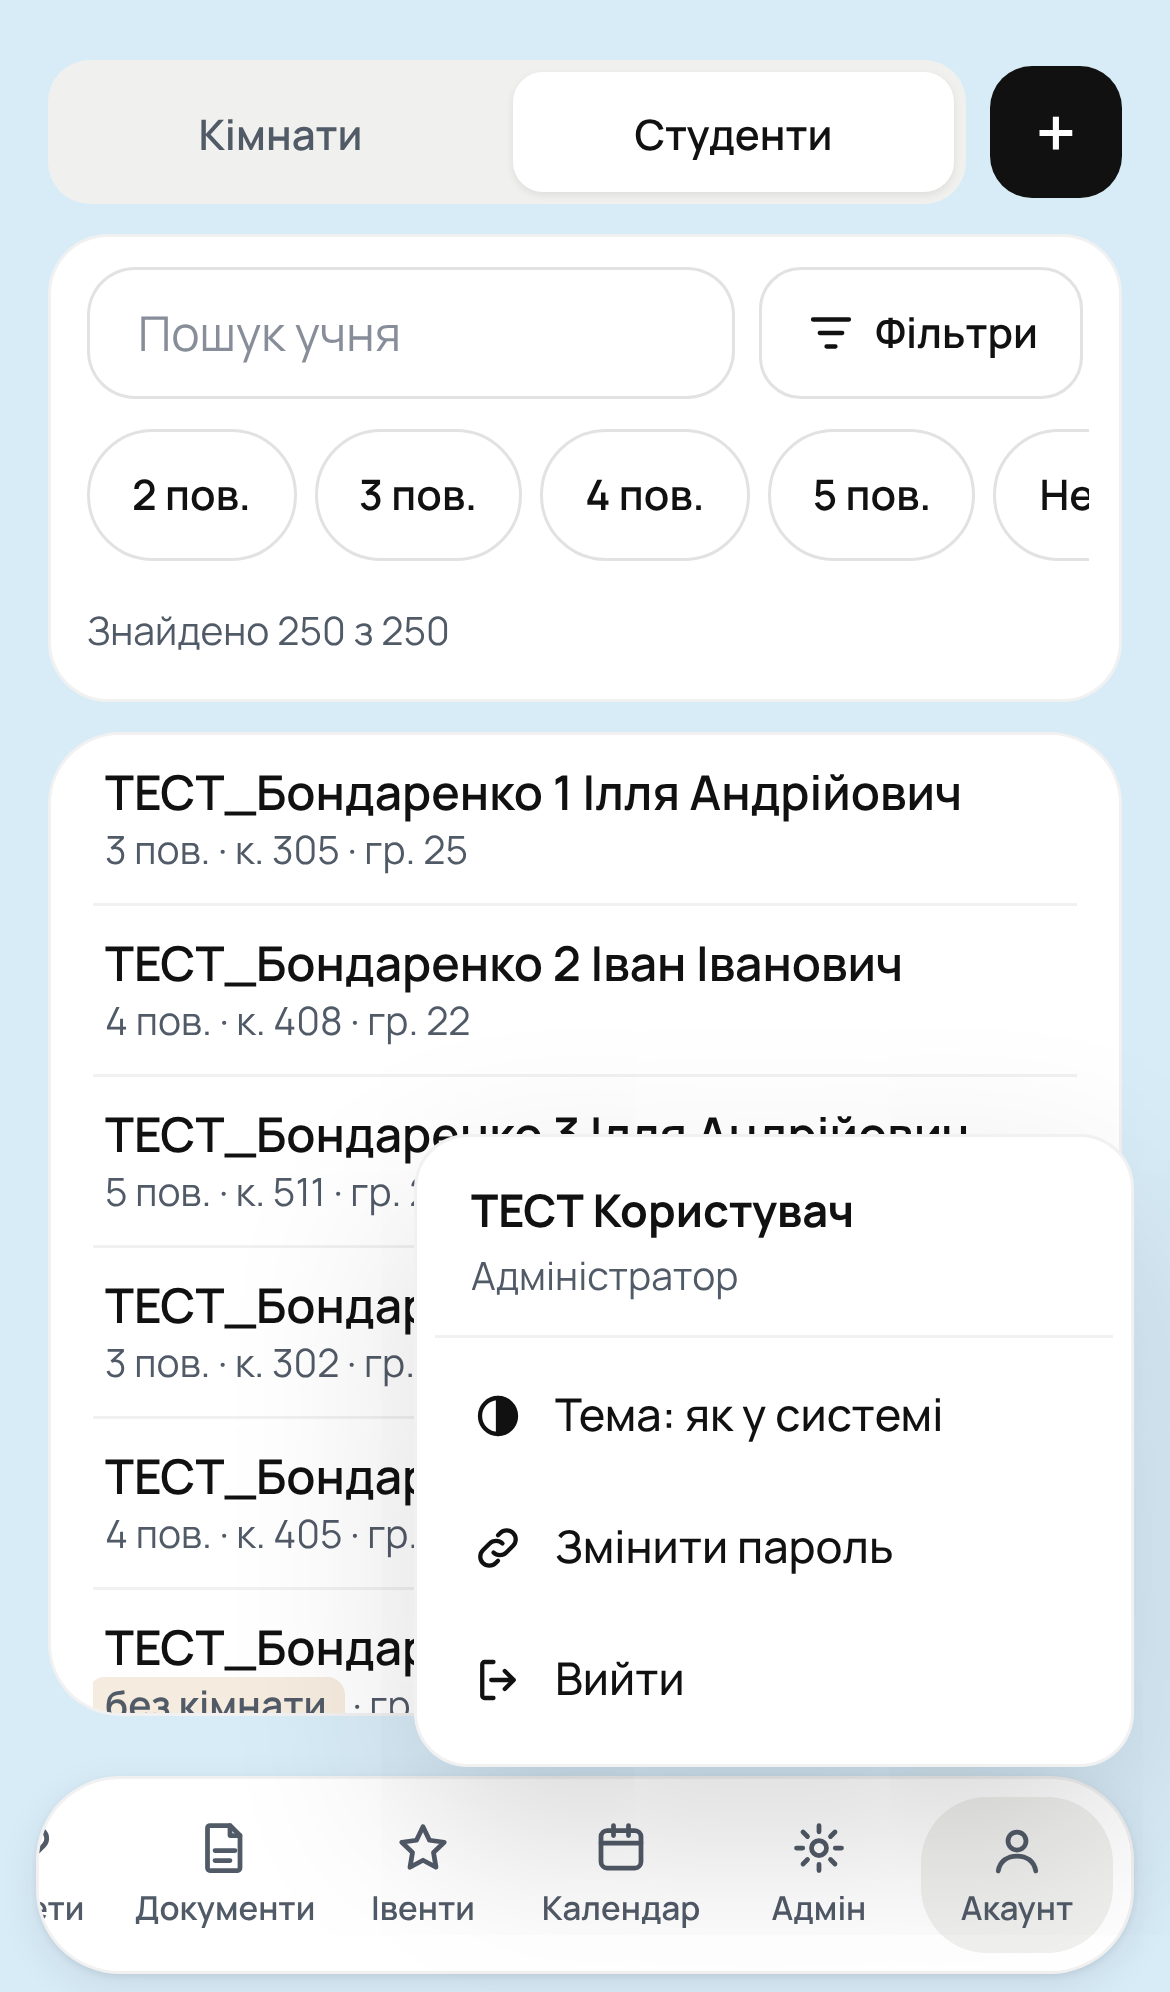
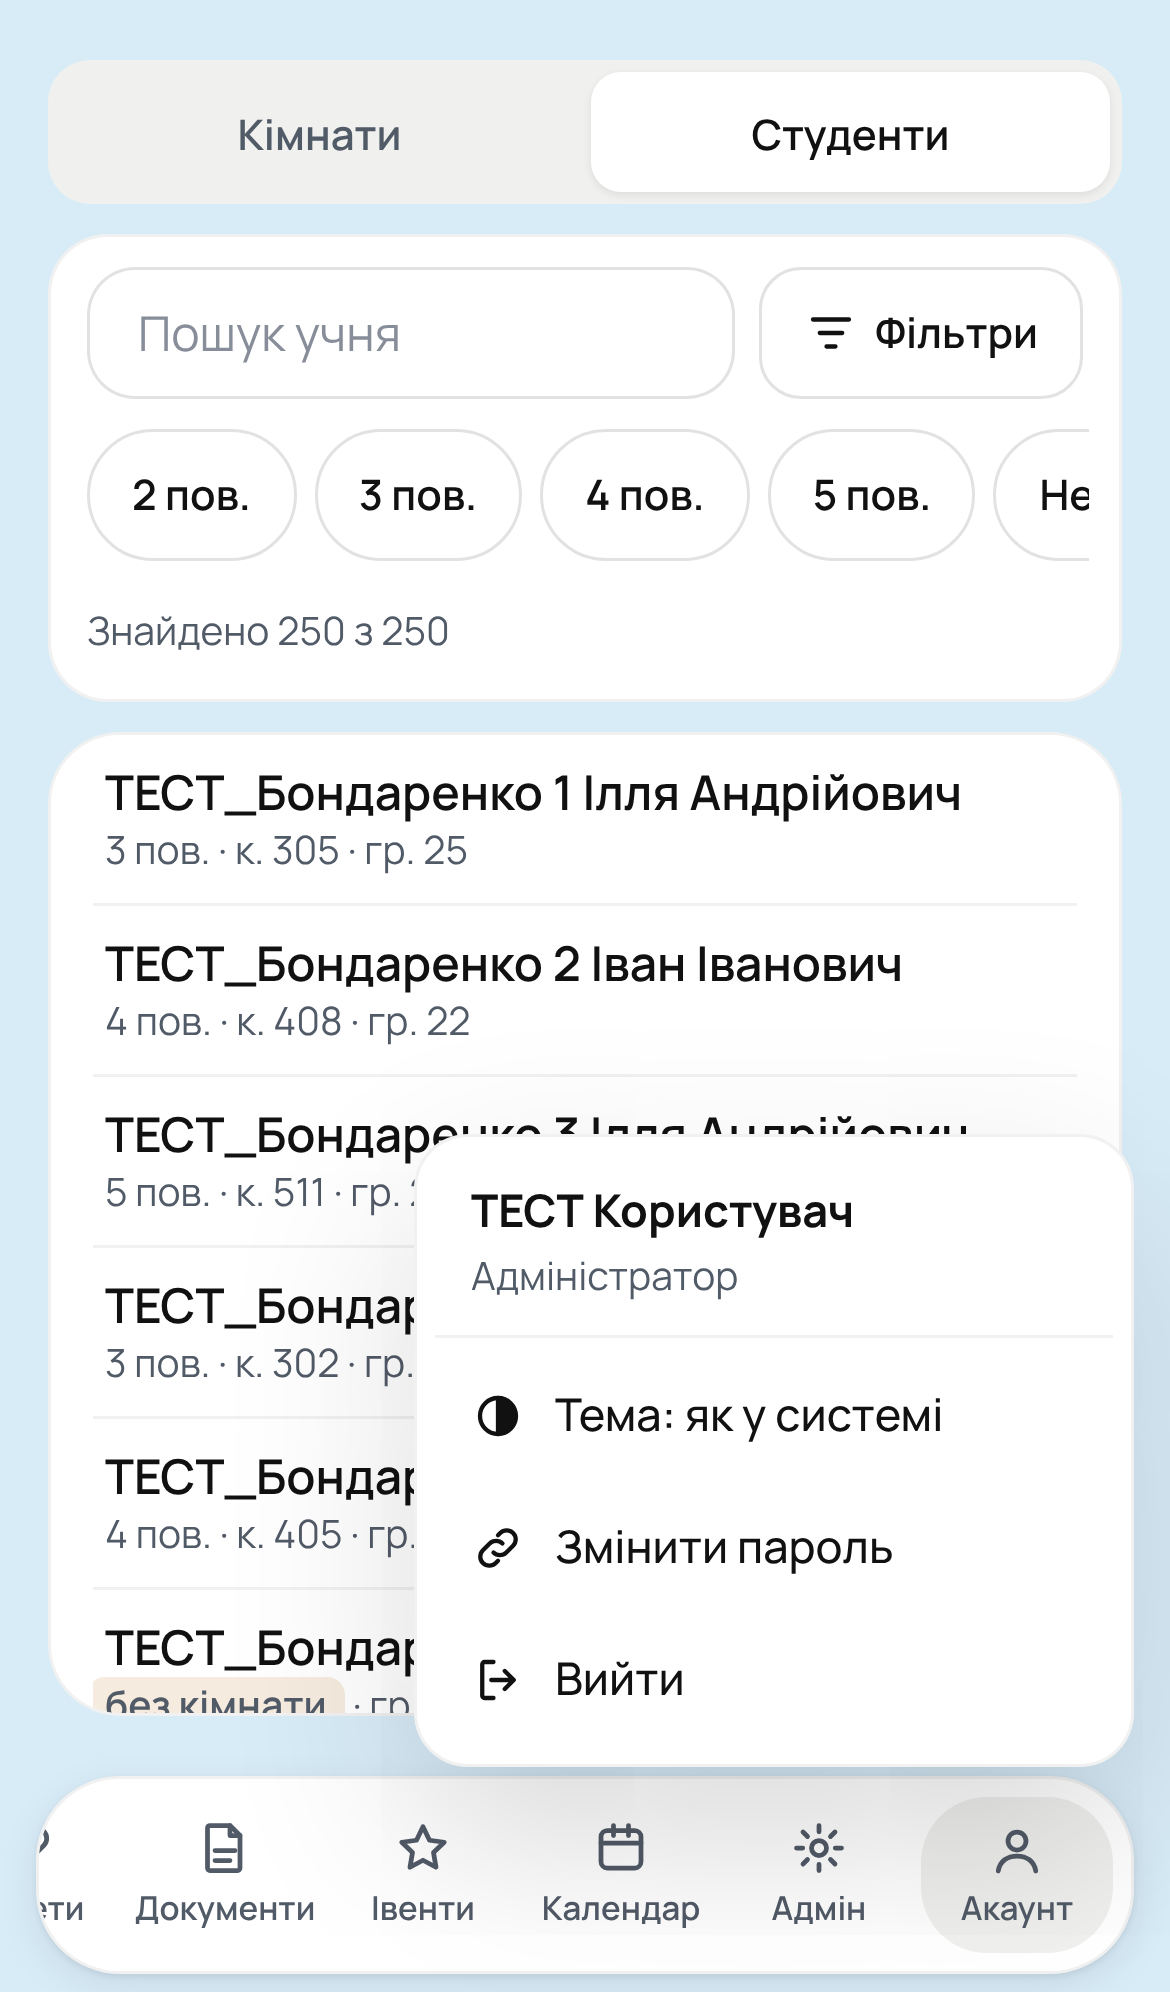
Гуртожиток: на телефоні прибрано кнопку «+»
Claude-Session: https://claude.ai/code/session_0179mcXG9UhznU63hvADD4UN

Changed region(s): [[0.5538, 0.0311, 0.9846, 0.1245], [0.1538, 0.0622, 0.3385, 0.0934]]

diff --git a/src/pages/HostelPage.tsx b/src/pages/HostelPage.tsx
@@ -35,9 +35,10 @@ export function HostelPage() {
           <NavLink to="/hostel/rooms" replace>Кімнати</NavLink>
           <NavLink to="/hostel/students" replace>Студенти</NavLink>
         </nav>
-        <div className="hostel-actions">
-          <ActionMenu label="+ Додати" items={addItems} compact={isMobile} />
-        </div>
+        {/* На телефоні кнопку «+ Додати» прибрано (рішення власника): додавання учнів/кімнат — з десктопної версії */}
+        {!isMobile && <div className="hostel-actions">
+          <ActionMenu label="+ Додати" items={addItems} />
+        </div>}
       </div>
         <HostelNewRoom.Provider value={{ creating, setCreating }}>
           <HostelStudentCard.Provider value={{ openId, open: setOpenId }}>
